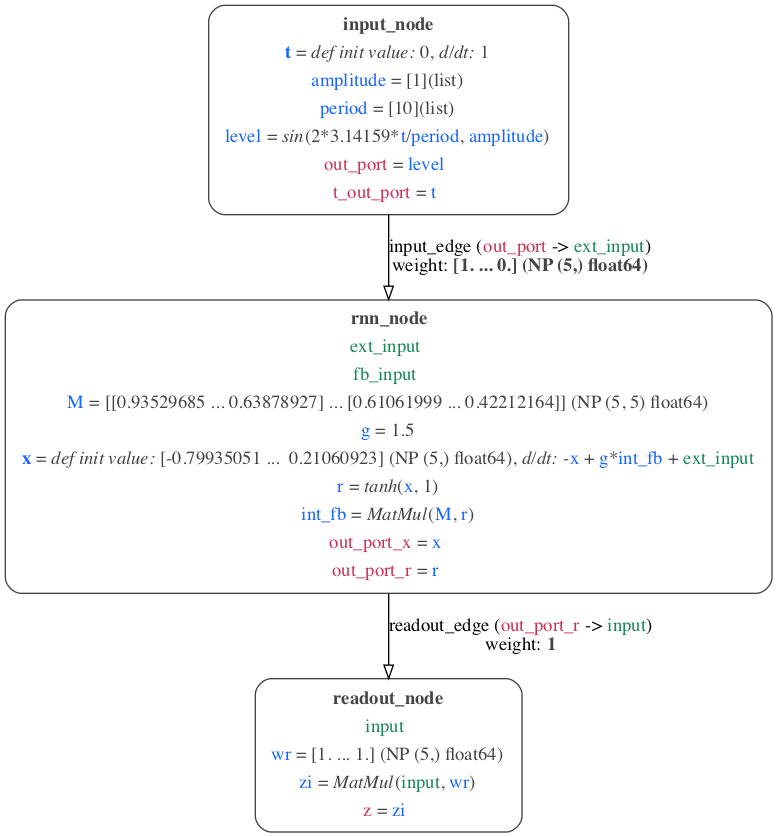
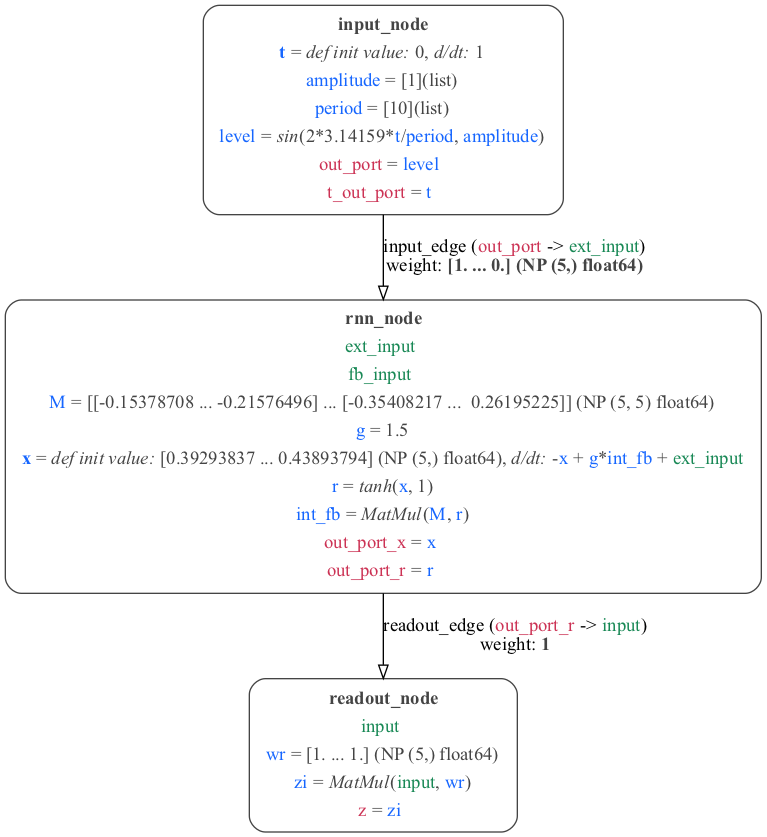
Updated RNN and IaF models

diff --git a/examples/MDF/RNN/generate_rnn.py b/examples/MDF/RNN/generate_rnn.py
@@ -42,7 +42,7 @@ def main():
 
     N = 5
     g = 1.5
-    rnn_node = create_rnn_node("rnn_node", N, g)
+    rnn_node = create_rnn_node("rnn_node", N, g, seed=123)
 
     mod_graph.nodes.append(rnn_node)
 
@@ -159,20 +159,23 @@ def main():
             f"Finished {len(times)} steps in {dur:.4f}s, so {(dur/len(times)):.5f}s per step"
         )
 
+        import matplotlib.pyplot as plt
+
+        """
+        print("i: %s" % ins)
+        print("x: %s" % xs)
+        print("r: %s" % rs)"""
+
+        # plt.plot(times, ts, label="time at input node")
+        plt.plot(times, ins, label="state of input node")
+        plt.plot(times, xs, linewidth=0.25)
+        plt.plot(times, rs, label="RNN r state")
+        plt.plot(times, zs, label="z readout", linewidth=3)
+        plt.legend()
+
+        plt.savefig("RNN.run.png", bbox_inches="tight")
+
         if "-nogui" not in sys.argv:
-            import matplotlib.pyplot as plt
-
-            """
-            print("i: %s" % ins)
-            print("x: %s" % xs)
-            print("r: %s" % rs)"""
-
-            # plt.plot(times, ts, label="time at input node")
-            plt.plot(times, ins, label="state of input node")
-            plt.plot(times, xs, linewidth=0.25)
-            plt.plot(times, rs, label="RNN r state")
-            plt.plot(times, zs, label="z readout", linewidth=3)
-            plt.legend()
             plt.show()
 
     if "-graph" in sys.argv:

diff --git a/examples/MDF/RNN/generate_iaf.py b/examples/MDF/RNN/generate_iaf.py
@@ -122,13 +122,16 @@ def main():
             s.append(eg.enodes["iaf_node"].evaluable_outputs["out_port"].curr_value)
             t_ext += dt
 
-        if "-nogui" not in sys.argv:
-            import matplotlib.pyplot as plt
+        import matplotlib.pyplot as plt
 
-            plt.plot(times, t, label="time at input node")
-            plt.plot(times, i, label="state of input node")
-            plt.plot(times, s, label="IaF 0 state")
-            plt.legend()
+        plt.plot(times, t, label="time at input node")
+        plt.plot(times, i, label="state of input node")
+        plt.plot(times, s, label="IaF 0 state")
+        plt.legend()
+
+        plt.savefig("IaF.run.png", bbox_inches="tight")
+
+        if "-nogui" not in sys.argv:
             plt.show()
 
     if "-graph" in sys.argv:

diff --git a/examples/MDF/RNN/utils.py b/examples/MDF/RNN/utils.py
@@ -2,7 +2,9 @@ from modeci_mdf.mdf import *
 import numpy as np
 
 
-def create_rnn_node(id, N, g):
+def create_rnn_node(id, N, g, seed=1234):
+
+    np.random.seed(seed)
 
     ## RNN node...
     rnn_node = Node(id=id)

diff --git a/examples/MDF/RNN/README.md b/examples/MDF/RNN/README.md
@@ -1,1 +1,22 @@
-These examples are *work in progress*!
+**These examples are work in progress!**
+
+## Recurrent Neural Network (RNN) model
+
+The script [generate_rnn.py](generate_rnn.py) can be used to generate an example RNN model. The MDF is in [RNNs.yaml](RNNs.yaml) and `python generate_rnn.py -graph` will produce the following graph of the network:
+
+<p align="center"><img src="rnn.png" alt="rnn.png" height="400"></p>
+
+To run the network using the MDF execution engine type `python generate_rnn.py -run`, producing:
+
+<p align="center"><img src="RNN.run.png" alt="RNN.run.png" height="400"></p>
+
+
+## Integrate and Fire (IaF) neuron model
+
+The script [generate_iaf.py](generate_iaf.py) can be used to generate an example Integrate and Fire model. The MDF is in [IAFs.yaml](IAFs.yaml) and `python generate_iaf.py -graph` will produce the following graph of the network:
+
+<p align="center"><img src="iaf.png" alt="iaf.png" height="400"></p>
+
+To run the network using the MDF execution engine type `python generate_iaf.py -run`, producing:
+
+<p align="center"><img src="IaF.run.png" alt="IaF.run.png" height="400"></p>

diff --git a/examples/MDF/README.md b/examples/MDF/README.md
@@ -49,3 +49,8 @@ An example with [Nodes](../../docs/README.md#node) containing persistent [States
 A simple 3 [Nodes](../../docs/README.md#node) graph with scheduling [Conditions](../../docs/README.md#condition)
 
 <p align="center"><img src="images/abc_conditions.png" alt="simple"/></p>
+
+
+## More examples
+
+There are further examples under development, including of a Recurrent Neural Network (RNN), and an Integrate and Fire (IaF) neuron model in [this directory](RNN).
